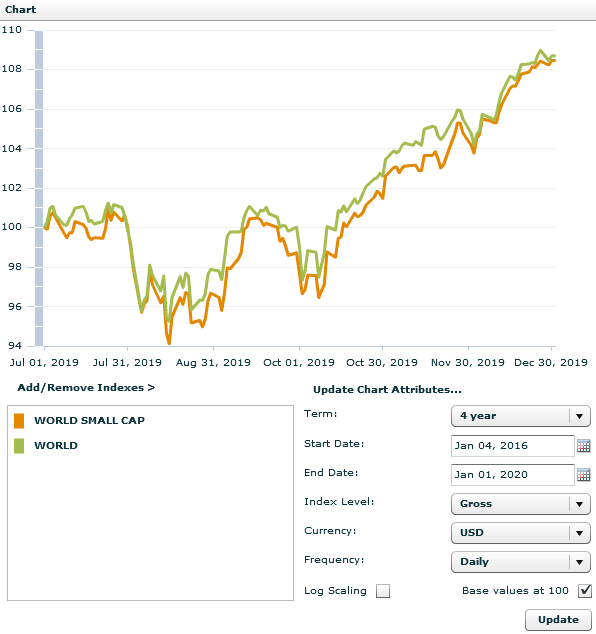
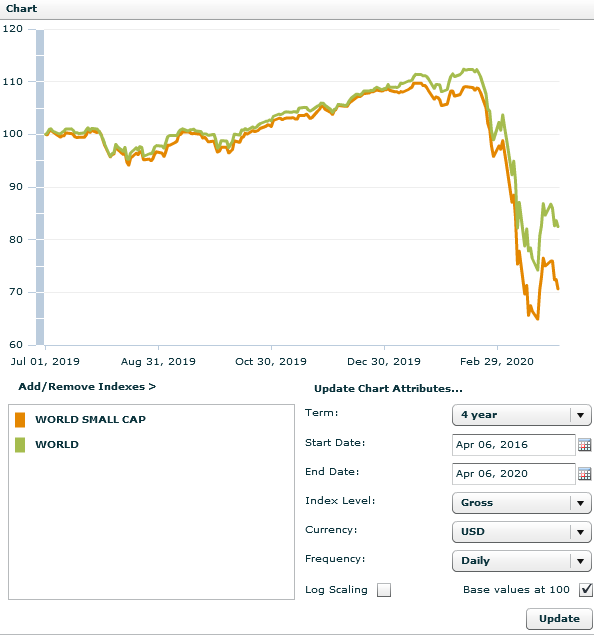
Updated bet-of-the-decade

diff --git a/blog/bet-of-the-decade.html b/blog/bet-of-the-decade.html
@@ -69,7 +69,7 @@
 <section class="row">
 <div class="coffee-span-12 header">
 <h3 class="heading-1" style="direction: rtl; font-size: 40px;">התערבות העשור: השקעה פאסיבית מול מנוהלת</h3>
-<p class="paragraph" style="font-size:12px;">פורסם בתאריך 30.6.2019, עדכון אחרון ב-1.1.2020</p>
+<p class="paragraph" style="font-size:12px;">פורסם בתאריך 30.6.2019, עדכון אחרון ב-6.4.2020</p>
 <p class="paragraph" style="font-size:12px;">התכנים בפוסט זה, כמו כל שאר התכנים בבלוג, הינם תכנים לימודיים במהותם, הם אינם מהווים ייעוץ או המלצה לביצוע פעולה בנייר ערך, ואין לראות בהם תחליף לייעוץ השקעות ו/או ייעוץ פנסיוני המתחשב בצרכיו הייחודיים של כל אדם.</p>
 <br>
 <div class="container table-row">
@@ -119,16 +119,17 @@
 <p class="paragraph"><b>מדוע דווקא המדדים הללו?</b> כיוון שמדדי מניות קטנות מספקים תשואה היסטורית (נומינלית) של כ-12% לשנה בממוצע רב-שנתי, ומדדי מניות גדולות מספקים תשואה של כ-10% לשנה בממוצע רב-שנתי, יש היגיון בחשיפה משמעותית של התיק גם למניות קטנות ולא רק למניות גדולות או מניות ענק כמו המניות הכלולות במדד ה-S&P 500 למשל (כמובן שהתשואה העודפת באה ע"ח תנודתיות גבוהה יותר). הסיבה לבחירת שני מדדים ולא מדד גלובלי אחד שכולל גם חברות גדולות וגם קטנות (כדוגמת MSCI World All Cap Index) היא שהמשקל של כמה מאות מניות ענק במדד עולמי אחד מהווה כ-80-90% מכלל המדד, כך שאלפי חברות קטנות יותר מקבלות חשיפה מאוד נמוכה. לכן, בחר רונן להקצות 50% מהתיק למדד מניות גדולות ו-50% למדד מניות קטנות. אין לראות בתיק זה משום המלצה לביצוע פעולה בניירות ערך או לייעוץ השקעות המתחשב בצרכיו הייחודיים של כל אדם.</p>
 
 <p class="paragraph" style="padding-top: 20px; font-size:22px; color: #008000" id="results">תוצאות ההתערבות</p>
-<p class="paragraph">התוצאות שלהלן הינן התוצאות המצטברות ממועד תחילת ההתערבות (ה-1.7.2019) ועד ה-1.1.2020. נכון למועד זה:</p>
-<p class="paragraph">התיק של יואב השיג תשואה מצטברת שלילית של <b>5.3%-</b>.</p>
-<p class="paragraph">התיק של רונן השיג תשואה מצטברת חיובית של <b>8.6%</b>.</p>
-<p class="paragraph">הפרש התשואות עומד כרגע על <b>13.9%</b> לזכות התיק של רונן.</p>
-<p class="paragraph">נכון לחודש אוקטובר 2019 הפרש התשואות עמד על <b>8.9%</b> לזכות התיק של רונן.</p>
+<p class="paragraph">התוצאות שלהלן הינן התוצאות המצטברות ממועד תחילת ההתערבות (ה-1.7.2019) ועד ה-6.4.2020. נכון למועד זה:</p>
+<p class="paragraph">התיק של יואב השיג תשואה מצטברת שלילית של <b>38.4%-</b>.</p>
+<p class="paragraph">התיק של רונן השיג תשואה מצטברת שלילית של <b>23.5%-</b>.</p>
+<p class="paragraph">הפרש התשואות עומד כרגע על <b>14.9%</b> לזכות התיק של רונן, גידול של 1% בהפרש התשואות מהרבעון הקודם.</p>
+<p class="paragraph">נכון לחודש ינואר 2020 הפרש התשואות עמד על <b>13.9%</b> לזכות התיק של רונן.</p>
 <p class="paragraph" style="font-size:18px;">סיכום תוצאות התיק של יואב</p>
-<p class="paragraph">התיק של יואב התחיל משווי של $3,455, ועמד נכון למועד הדיווח על שווי של $3,293, המגלם תשואה שלילית של 4.7%-. בניכוי דמי הניהול המצטברים עומדת התשואה על 5.3%-. הטבלה שלהלן מפרטת את התשואות של כל אחת מהמניות בתיק של יואב.</p>
+<p class="paragraph">התיק של יואב התחיל משווי של $3,455, ועמד נכון למועד הדיווח על שווי של $2,155 (7,816 ש"ח), המגלם תשואה שלילית של 37.6%-. בניכוי דמי הניהול המצטברים עומדת התשואה על 38.4%-. הטבלה שלהלן מפרטת את התשואות של כל אחת מהמניות בתיק של יואב.</p>
 <p class="paragraph" style="text-align: center;"><img src="../images/results-yoav.png" alt="results-yoav"></p>
+<br>
 <p class="paragraph" style="font-size:18px;">סיכום תוצאות התיק של רונן</p>
-<p class="paragraph">התיק של רונן התחיל משווי של $200 ($100 לכל מדד) ועמד נכון למועד הדיווח על שווי של $217.16, המגלם תשואה של 8.6%. הגרף שלהלן מציג את התשואה של שני המדדים בתיק של רונן.</p>
+<p class="paragraph">התיק של רונן התחיל משווי של $200 ($100 לכל מדד) ועמד נכון למועד הדיווח על שווי של $153.09, המגלם תשואה שלילית של 23.5%-. הגרף שלהלן מציג את התשואה של שני המדדים בתיק של רונן.</p>
 <p class="paragraph" style="text-align: center;"><img src="../images/results-ronen.png" alt="results-ronen"></p>
 <br>
 <p class="paragraph">רוצה לשאול שאלות ולהשתתף בדיון? את/ה מוזמן/ת ל<a target="_blank" href="https://www.facebook.com/groups/2210028712553194/permalink/2424941474395249/">פוסט ההתערבות</a> בקבוצת הפייסבוק "ידע שווה כסף".</p>
